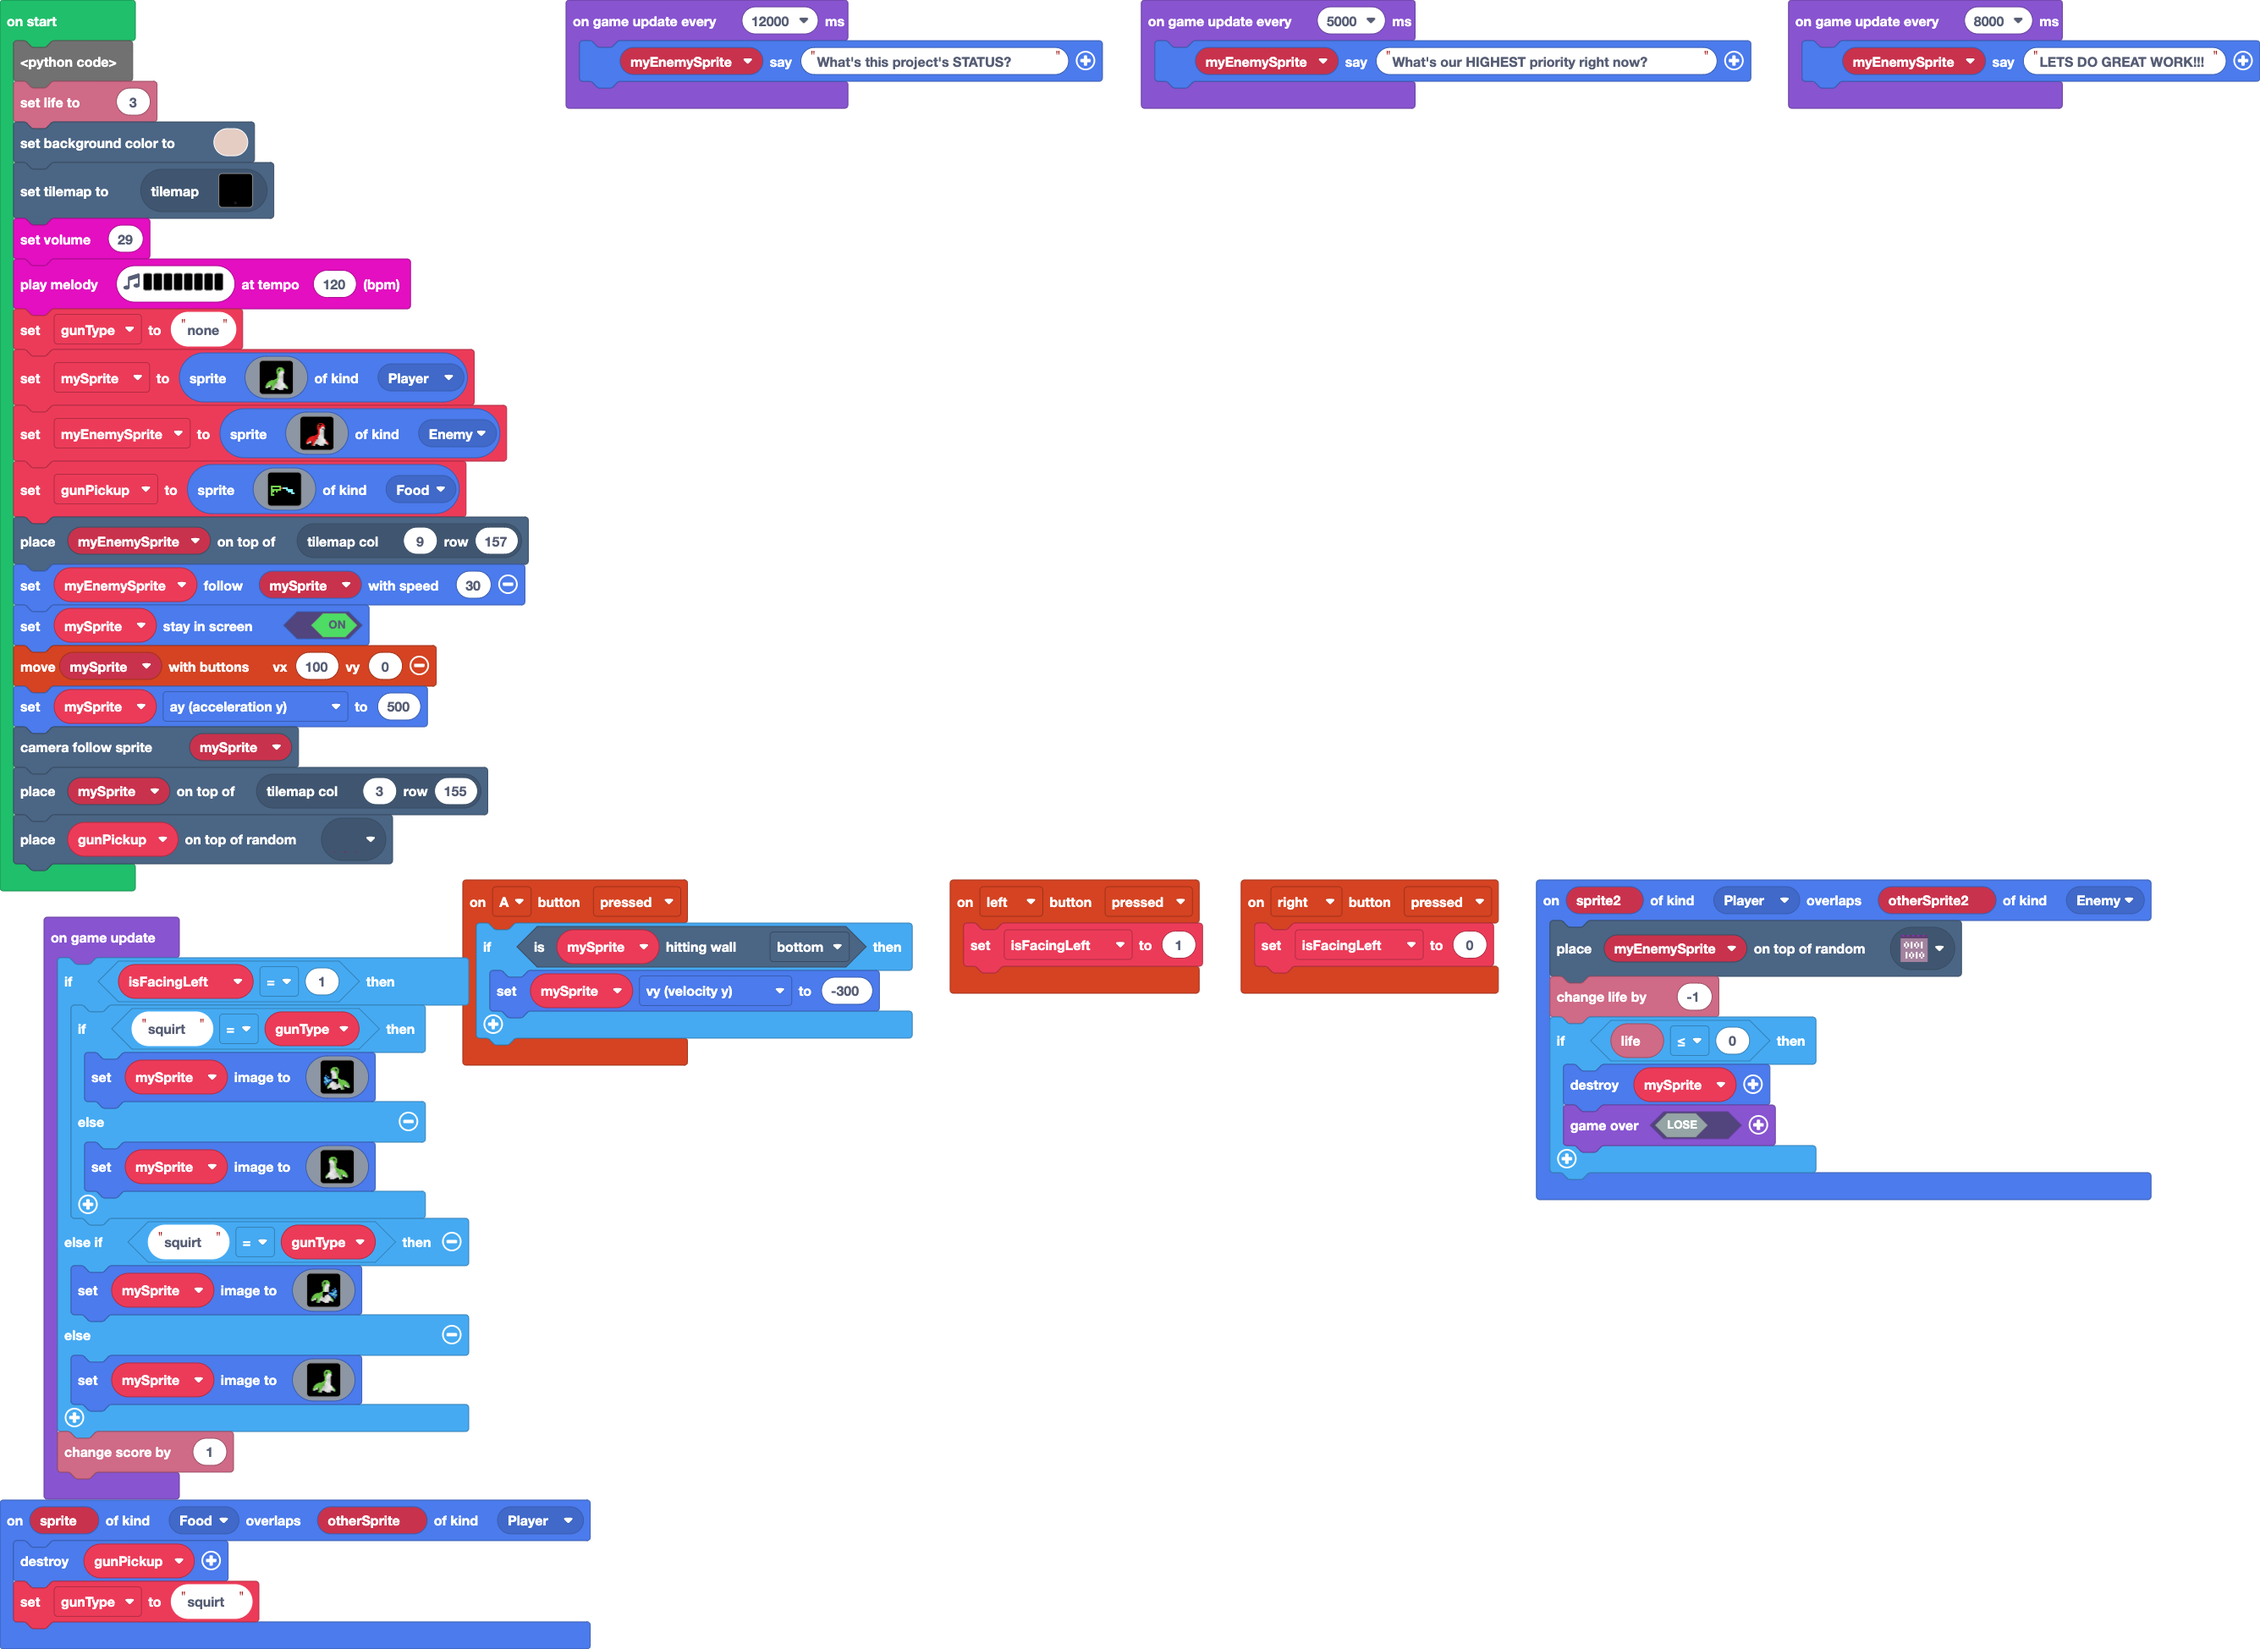
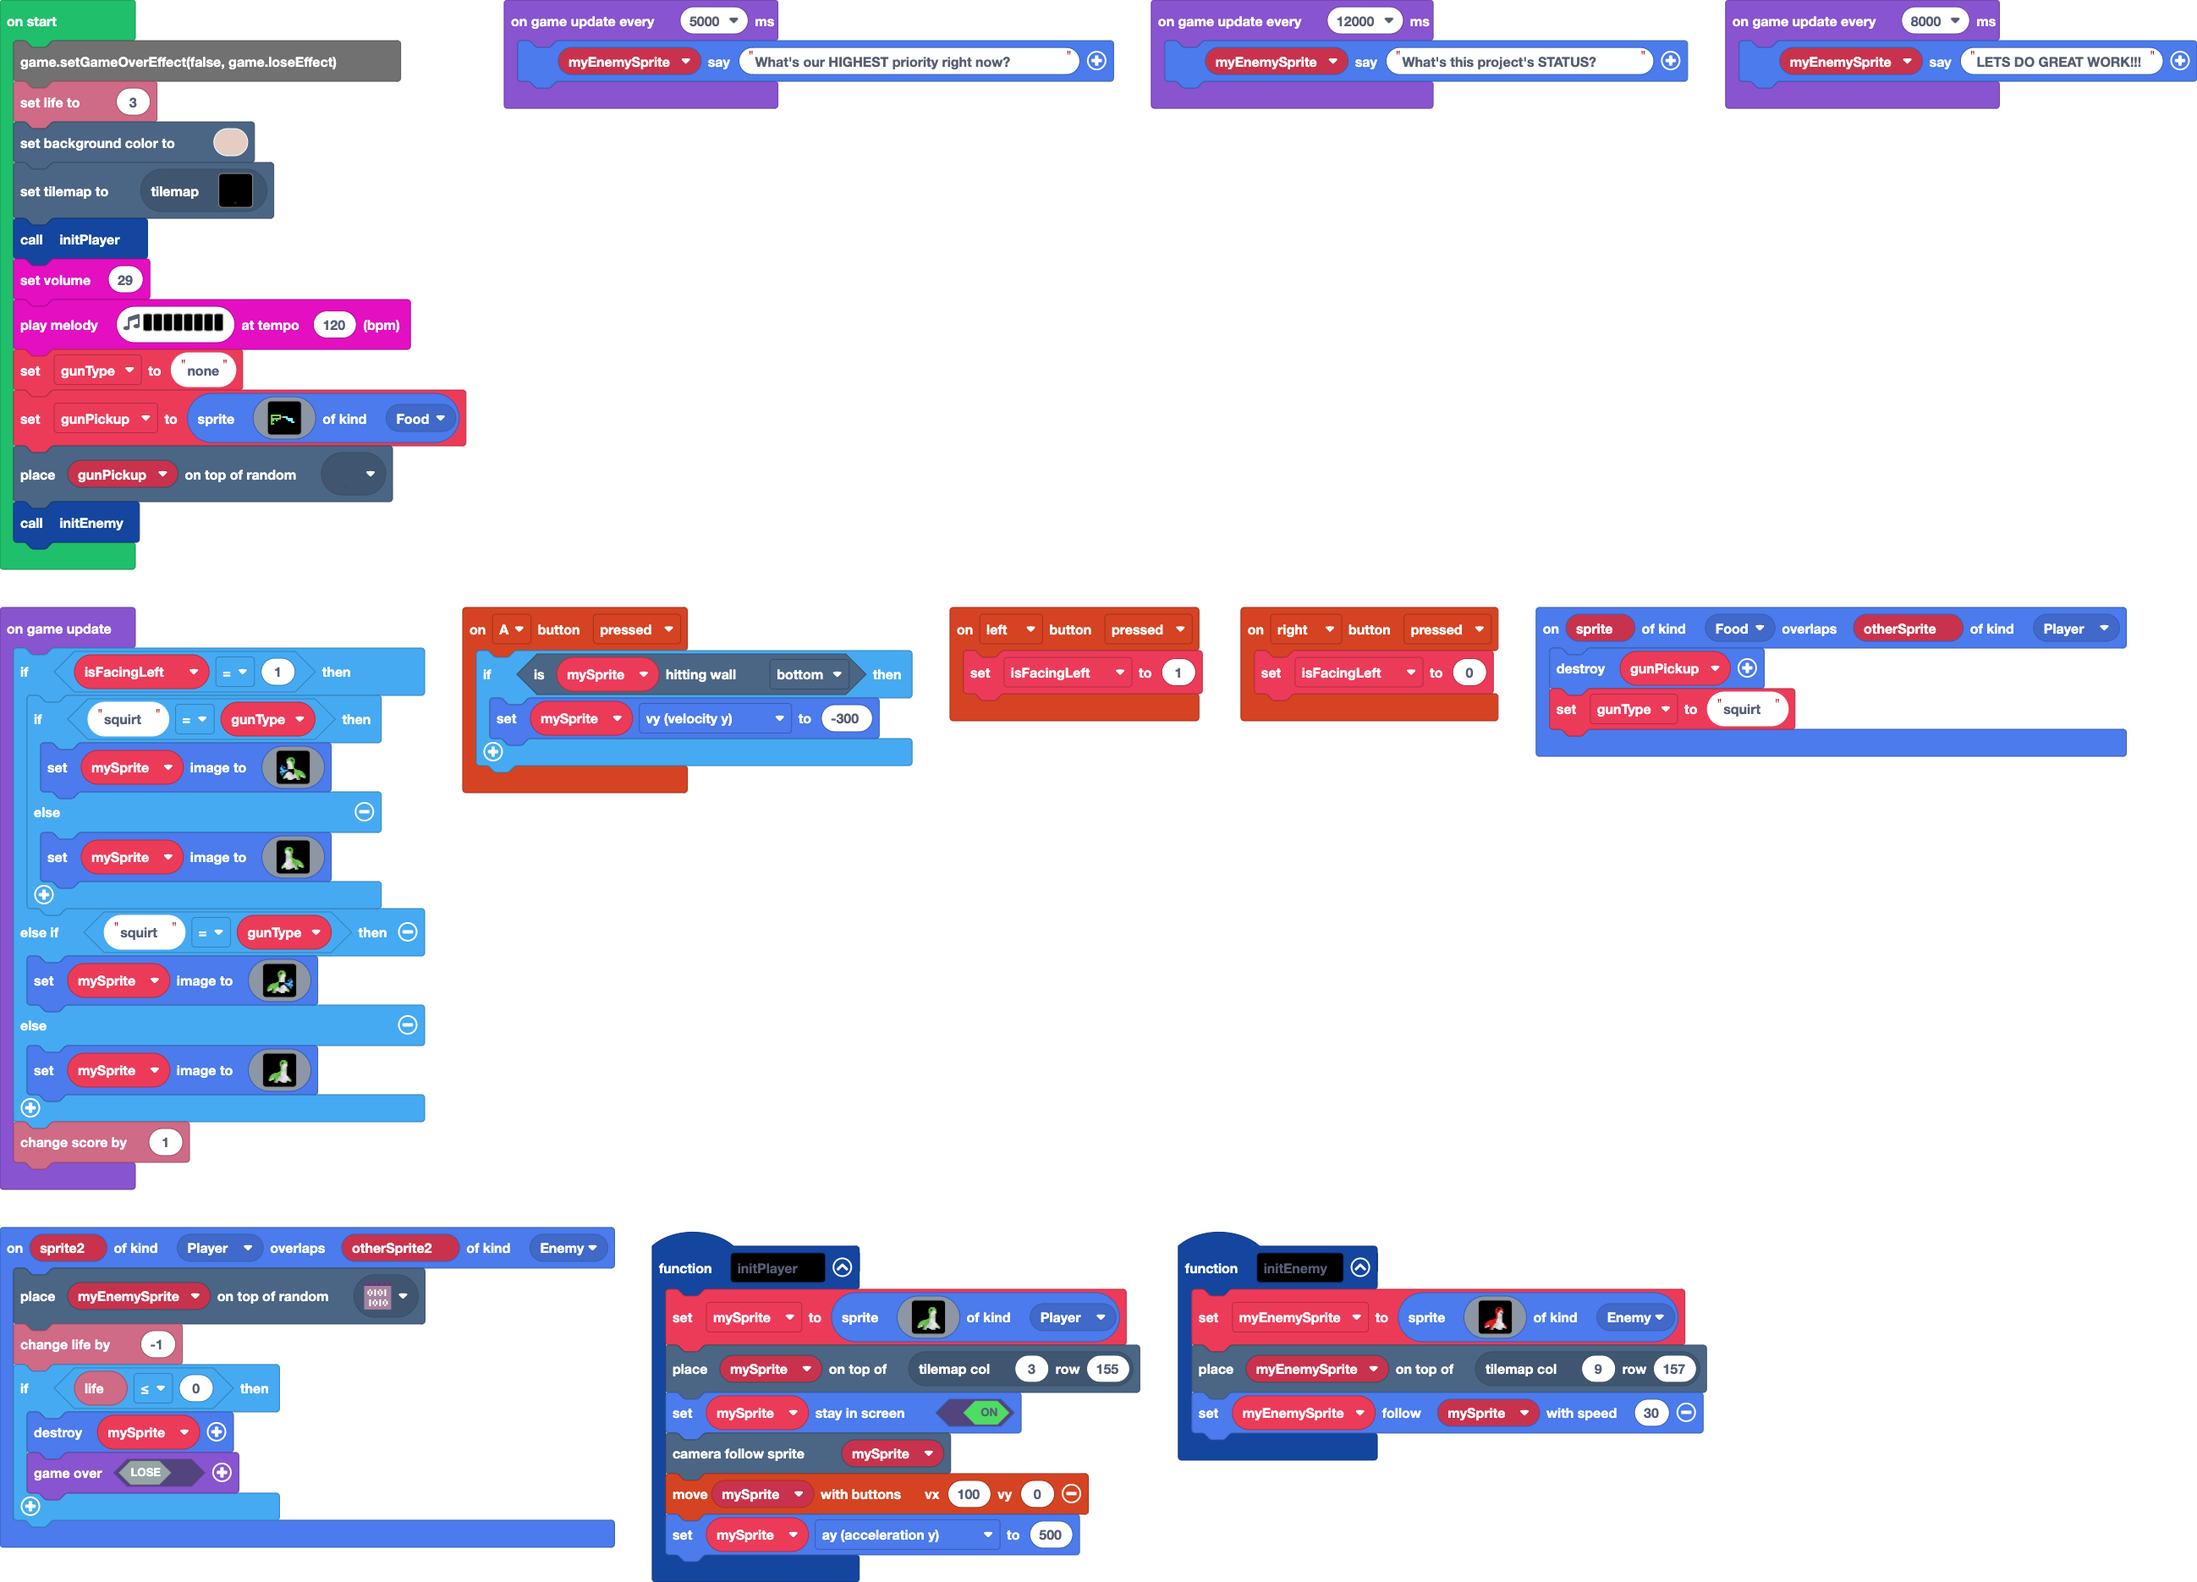
Update main.blocks, main.ts

diff --git a/main.ts b/main.ts
@@ -1,3 +1,8 @@
+function initEnemy () {
+    myEnemySprite = sprites.create(assets.image`Nega Nessie`, SpriteKind.Enemy)
+    tiles.placeOnTile(myEnemySprite, tiles.getTileLocation(9, 157))
+    myEnemySprite.follow(mySprite, 30)
+}
 controller.A.onEvent(ControllerButtonEvent.Pressed, function () {
     if (mySprite.isHittingTile(CollisionDirection.Bottom)) {
         mySprite.vy = -300
@@ -6,6 +11,14 @@ controller.A.onEvent(ControllerButtonEvent.Pressed, function () {
 controller.left.onEvent(ControllerButtonEvent.Pressed, function () {
     isFacingLeft = 1
 })
+function initPlayer () {
+    mySprite = sprites.create(assets.image`myImage`, SpriteKind.Player)
+    tiles.placeOnTile(mySprite, tiles.getTileLocation(3, 155))
+    mySprite.setStayInScreen(true)
+    scene.cameraFollowSprite(mySprite)
+    controller.moveSprite(mySprite, 100, 0)
+    mySprite.ay = 500
+}
 sprites.onOverlap(SpriteKind.Player, SpriteKind.Enemy, function (sprite2, otherSprite2) {
     tiles.placeOnRandomTile(myEnemySprite, assets.tile`binaryMid`)
     info.changeLifeBy(-1)
@@ -22,28 +35,21 @@ controller.right.onEvent(ControllerButtonEvent.Pressed, function () {
     isFacingLeft = 0
 })
 let isFacingLeft = 0
-let gunPickup: Sprite = null
-let myEnemySprite: Sprite = null
 let mySprite: Sprite = null
+let myEnemySprite: Sprite = null
+let gunPickup: Sprite = null
 let gunType = ""
 game.setGameOverEffect(false, game.loseEffect)
 info.setLife(3)
 scene.setBackgroundColor(13)
 tiles.setCurrentTilemap(tilemap`level1`)
+initPlayer()
 music.setVolume(29)
 music.playMelody("A F A B C5 G A G ", 120)
 gunType = "none"
-mySprite = sprites.create(assets.image`myImage`, SpriteKind.Player)
-myEnemySprite = sprites.create(assets.image`Nega Nessie`, SpriteKind.Enemy)
 gunPickup = sprites.create(assets.image`Squirt Gun`, SpriteKind.Food)
-tiles.placeOnTile(myEnemySprite, tiles.getTileLocation(9, 157))
-myEnemySprite.follow(mySprite, 30)
-mySprite.setStayInScreen(true)
-controller.moveSprite(mySprite, 100, 0)
-mySprite.ay = 500
-scene.cameraFollowSprite(mySprite)
-tiles.placeOnTile(mySprite, tiles.getTileLocation(3, 155))
 tiles.placeOnRandomTile(gunPickup, assets.tile`gunPickupTile`)
+initEnemy()
 game.onUpdate(function () {
     if (isFacingLeft == 1) {
         if ("squirt" == gunType) {
